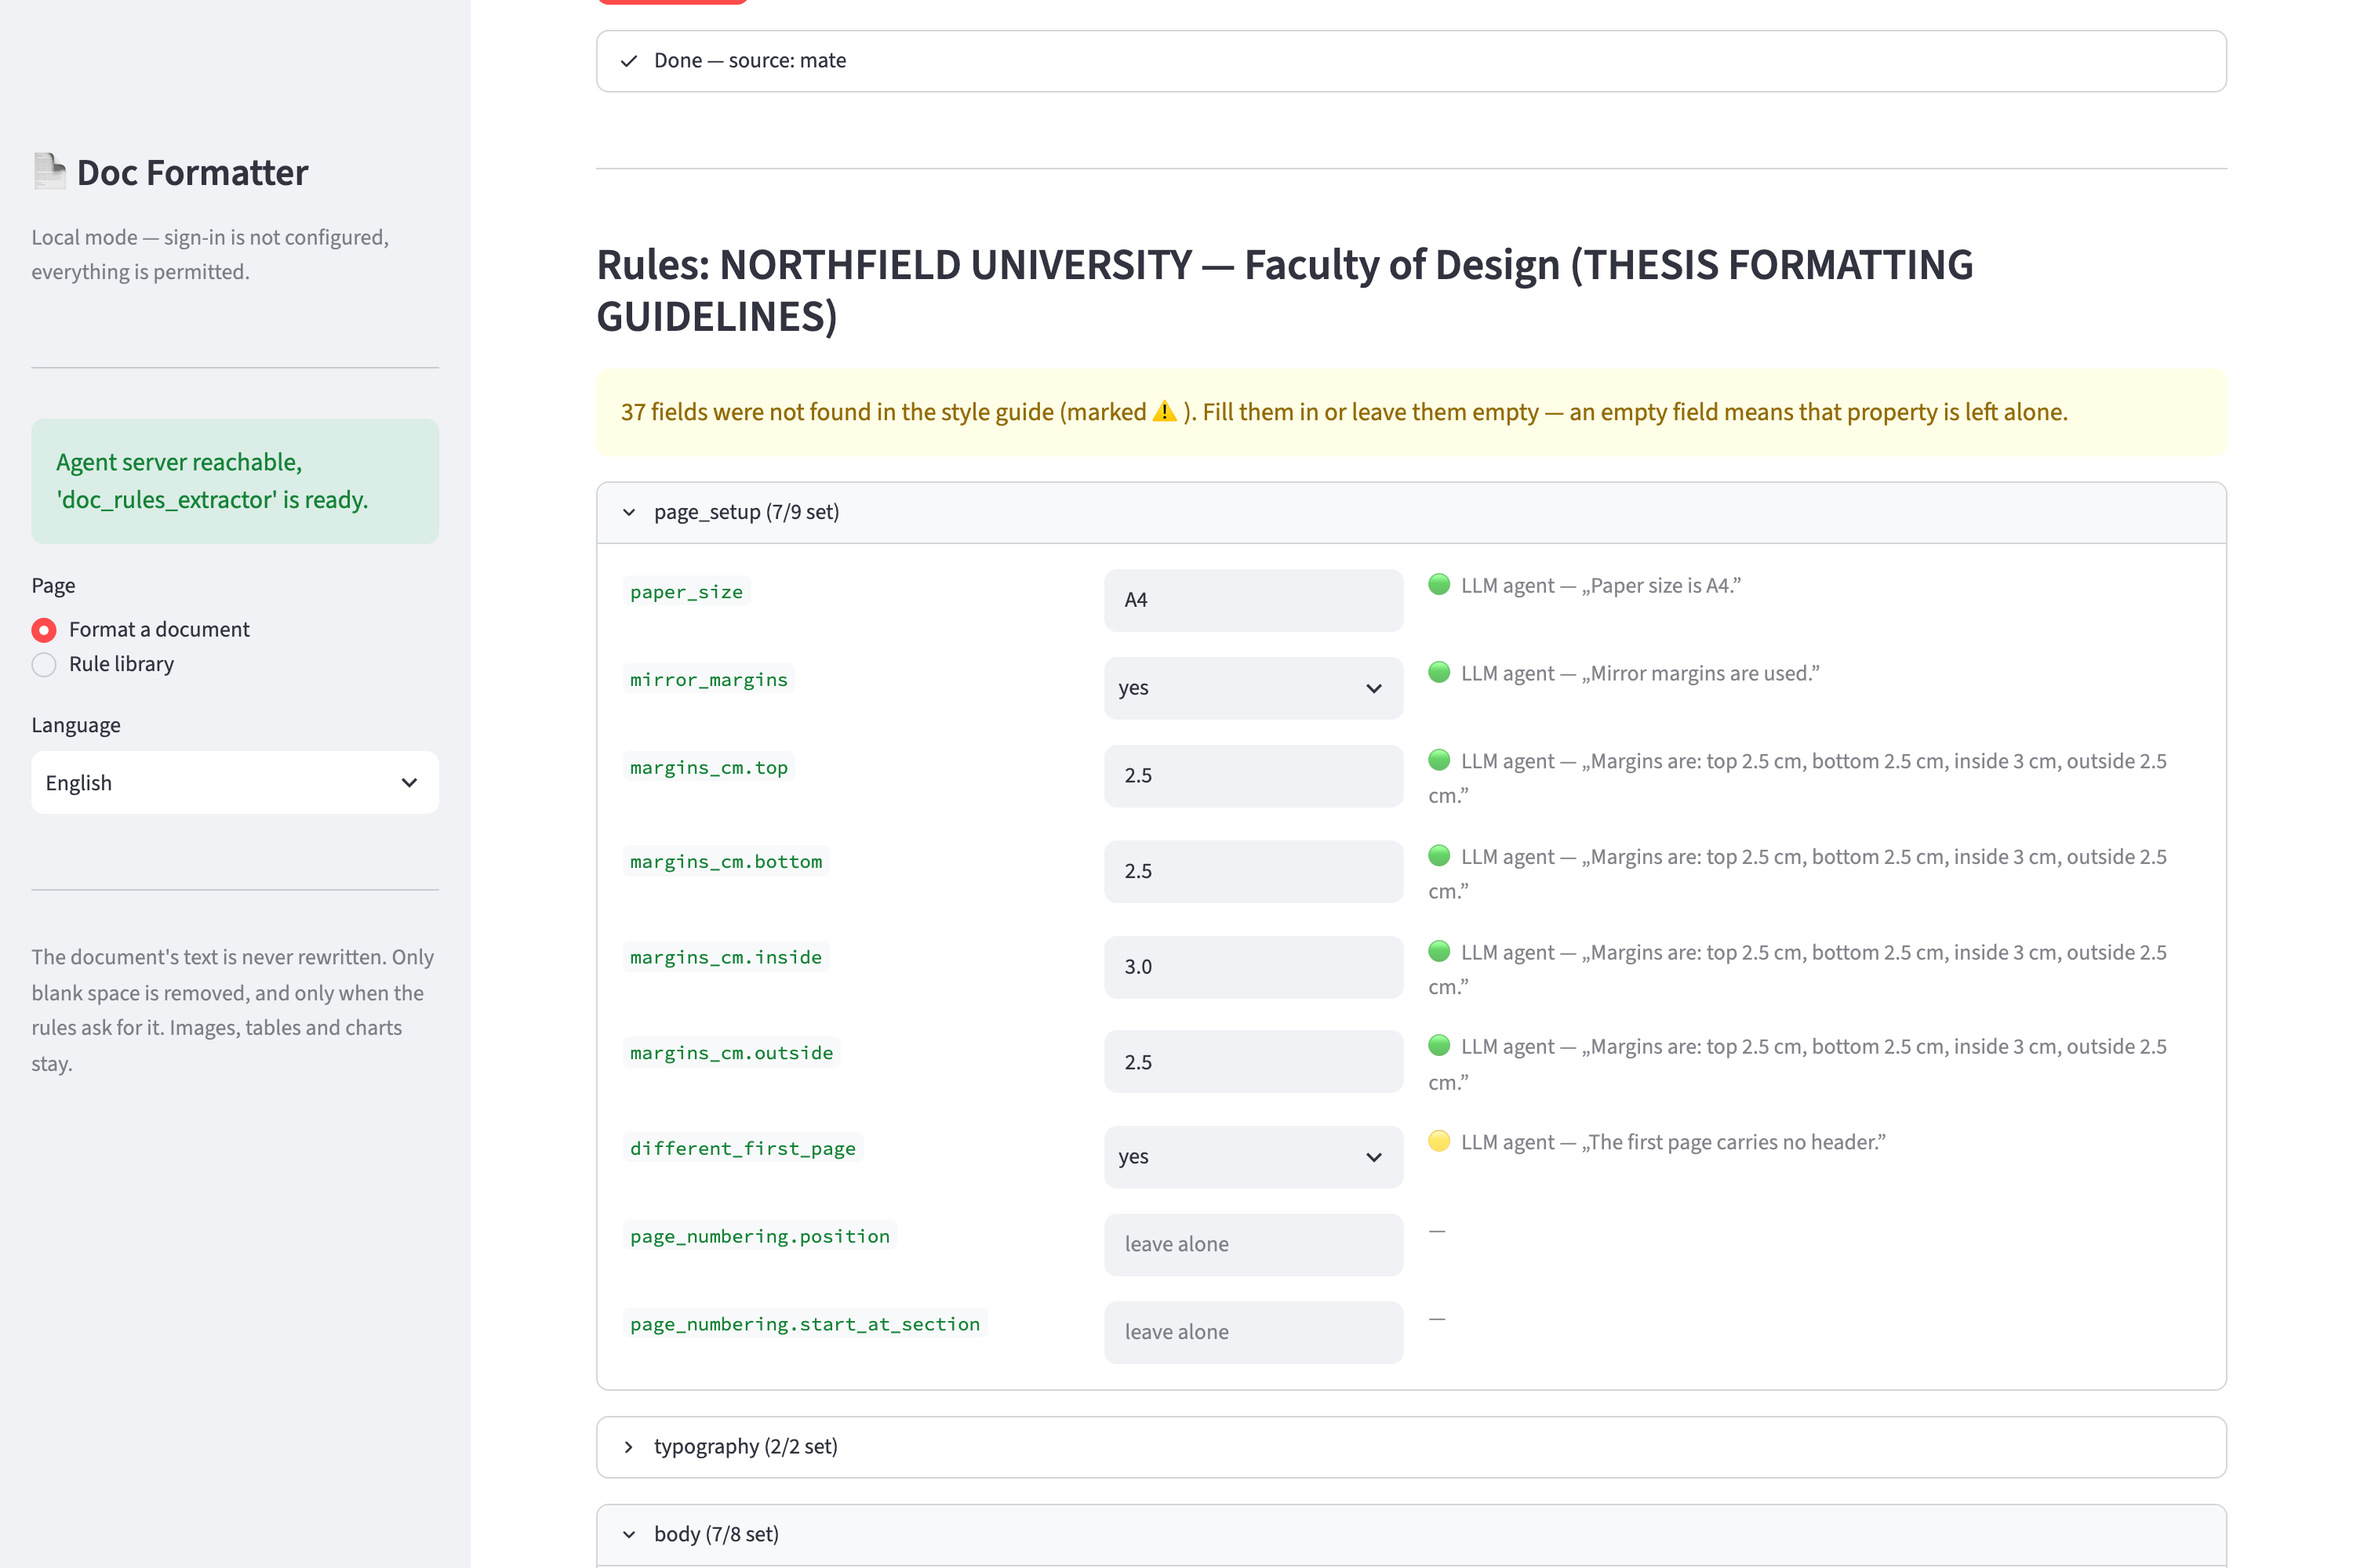
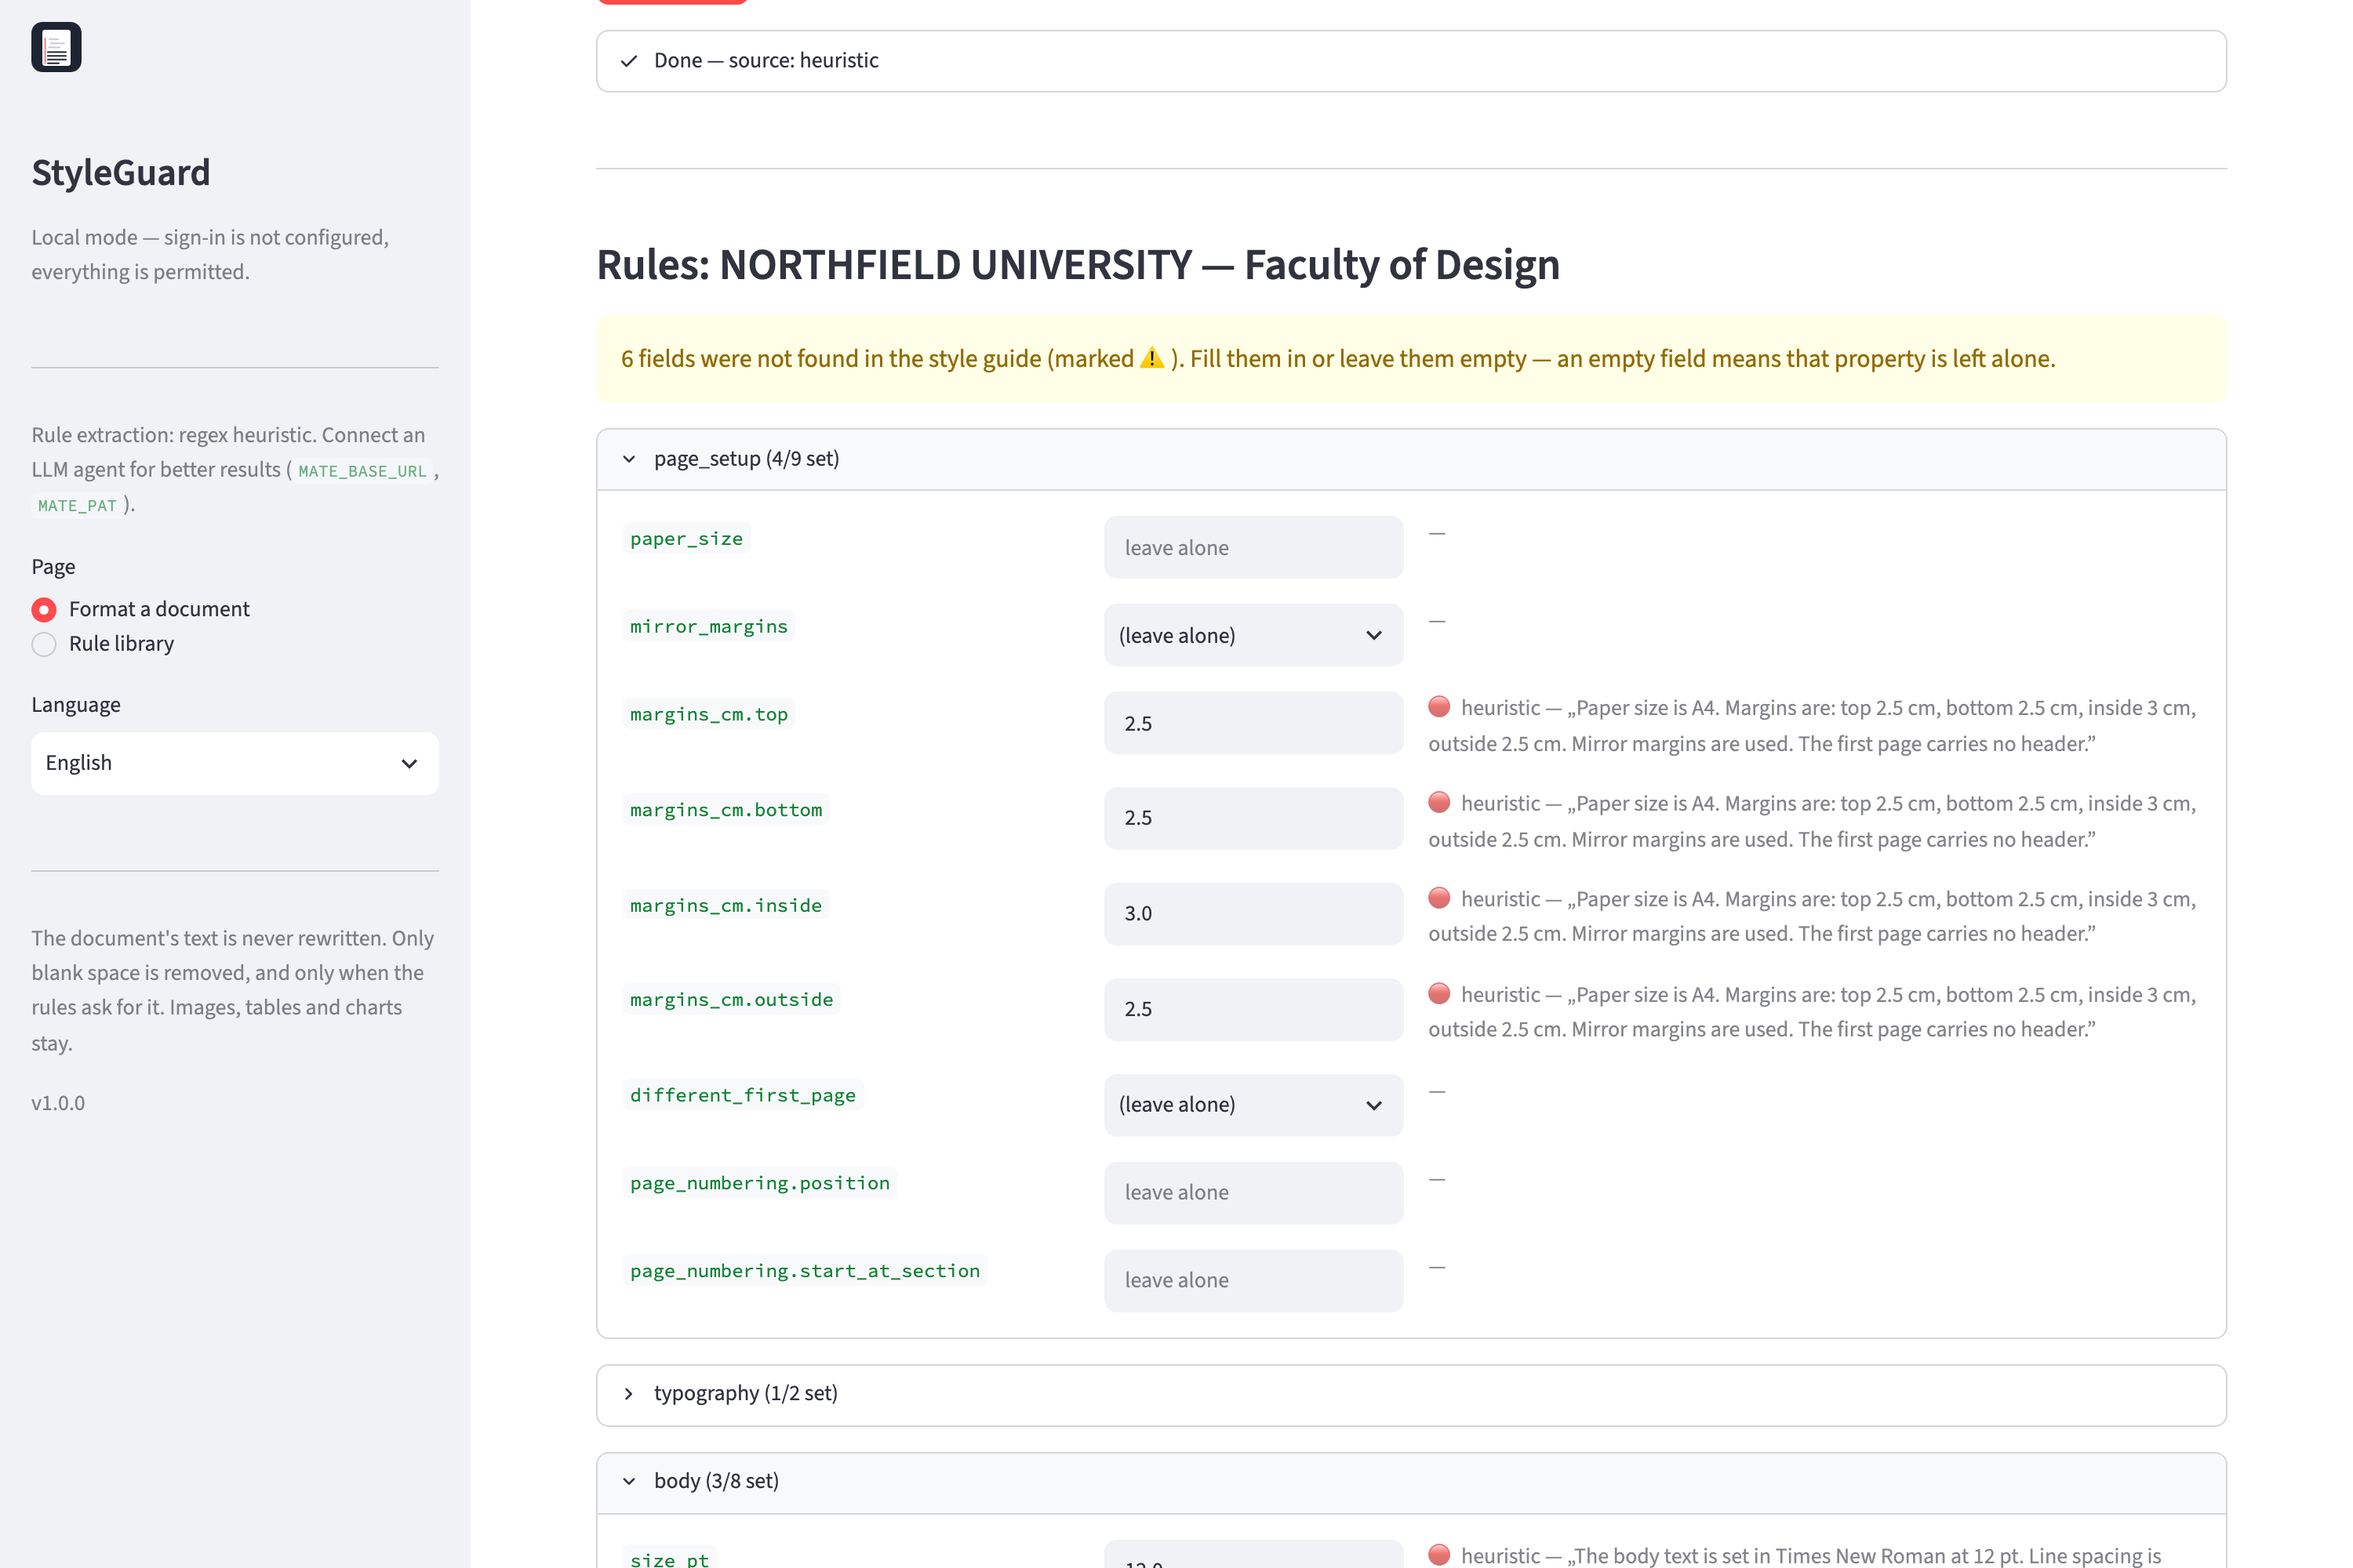
Regenerate the screenshots under the new name
The README images still showed "Doc Formatter" in the sidebar, and the old
document icon, because they are rendered from a running app and the rename did
not touch a PNG. Regenerated from docs/make_screenshots.py, so they now carry
the new name, the new icon and the version caption.

Also fixes a word the rename mangled: the screenshot script's temporary
directory prefix was "docformatter-shots-", and substituting docformat left
"styleguardter-shots-".

diff --git a/docs/make_screenshots.py b/docs/make_screenshots.py
@@ -296,7 +296,7 @@ def main() -> int:
     from playwright.sync_api import sync_playwright
 
     OUT_DIR.mkdir(parents=True, exist_ok=True)
-    workspace = Path(tempfile.mkdtemp(prefix="styleguardter-shots-"))
+    workspace = Path(tempfile.mkdtemp(prefix="styleguard-shots-"))
     thesis = workspace / "thesis.docx"
     guide = workspace / "formatting-guidelines.docx"
     library_dir = workspace / "library"
